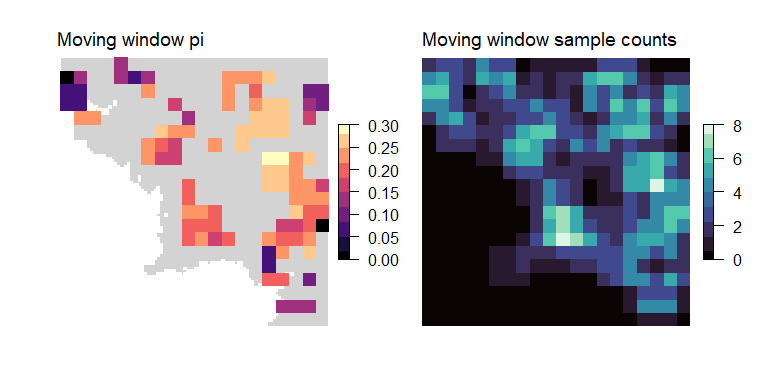
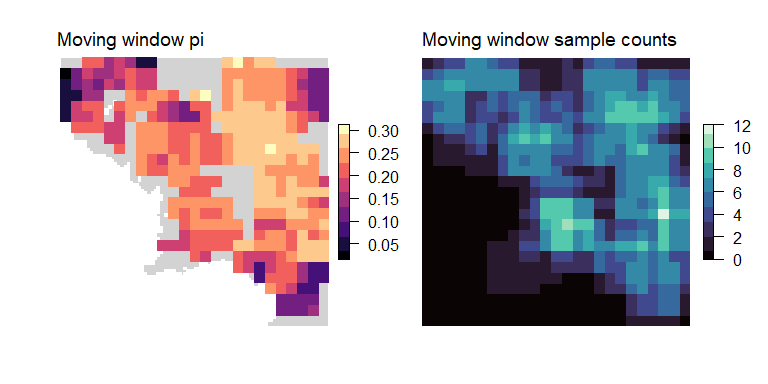
update README

diff --git a/README.md b/README.md
@@ -52,8 +52,8 @@ wgd <- window_gd(lotr_vcf,
           lotr_coords,
           lotr_lyr,
           stat = "pi",
-          wdim = 3,
-          fact = 5,
+          wdim = 5,
+          fact = 4,
           rarify = TRUE)
 
 # Use plot_gd() to plot the genetic diversity layer and plot_count() to plot the sample counts layer
@@ -88,7 +88,7 @@ undersampled.
 mgd_lyr <- mask_gd(kgd, lotr_range, minval = 0.01)
 
 # Further mask results in areas where the sample count was less than minval
-mgd_counts <- mask_gd(mgd_lyr, kgd_counts, minval = 2)
+mgd_counts <- mask_gd(mgd_lyr, kgd_counts, minval = 3)
 ```
 
 ``` r

diff --git a/paperex/README.md b/paperex/README.md
@@ -7,7 +7,7 @@ Examples from Bishop et al. 202X
 
 The simulation example was executed using the `run_simex.sh` script
 which runs the Geonomics simulation and then the time tests to generate
-all of the rasters and time data for the different dataset types.
+all of the rasters and computational time results for the different dataset types.
 
 *Note: some of these are parallelized tasks set up to operate on a 32
 processor system, this can be modified by going into any of the files
